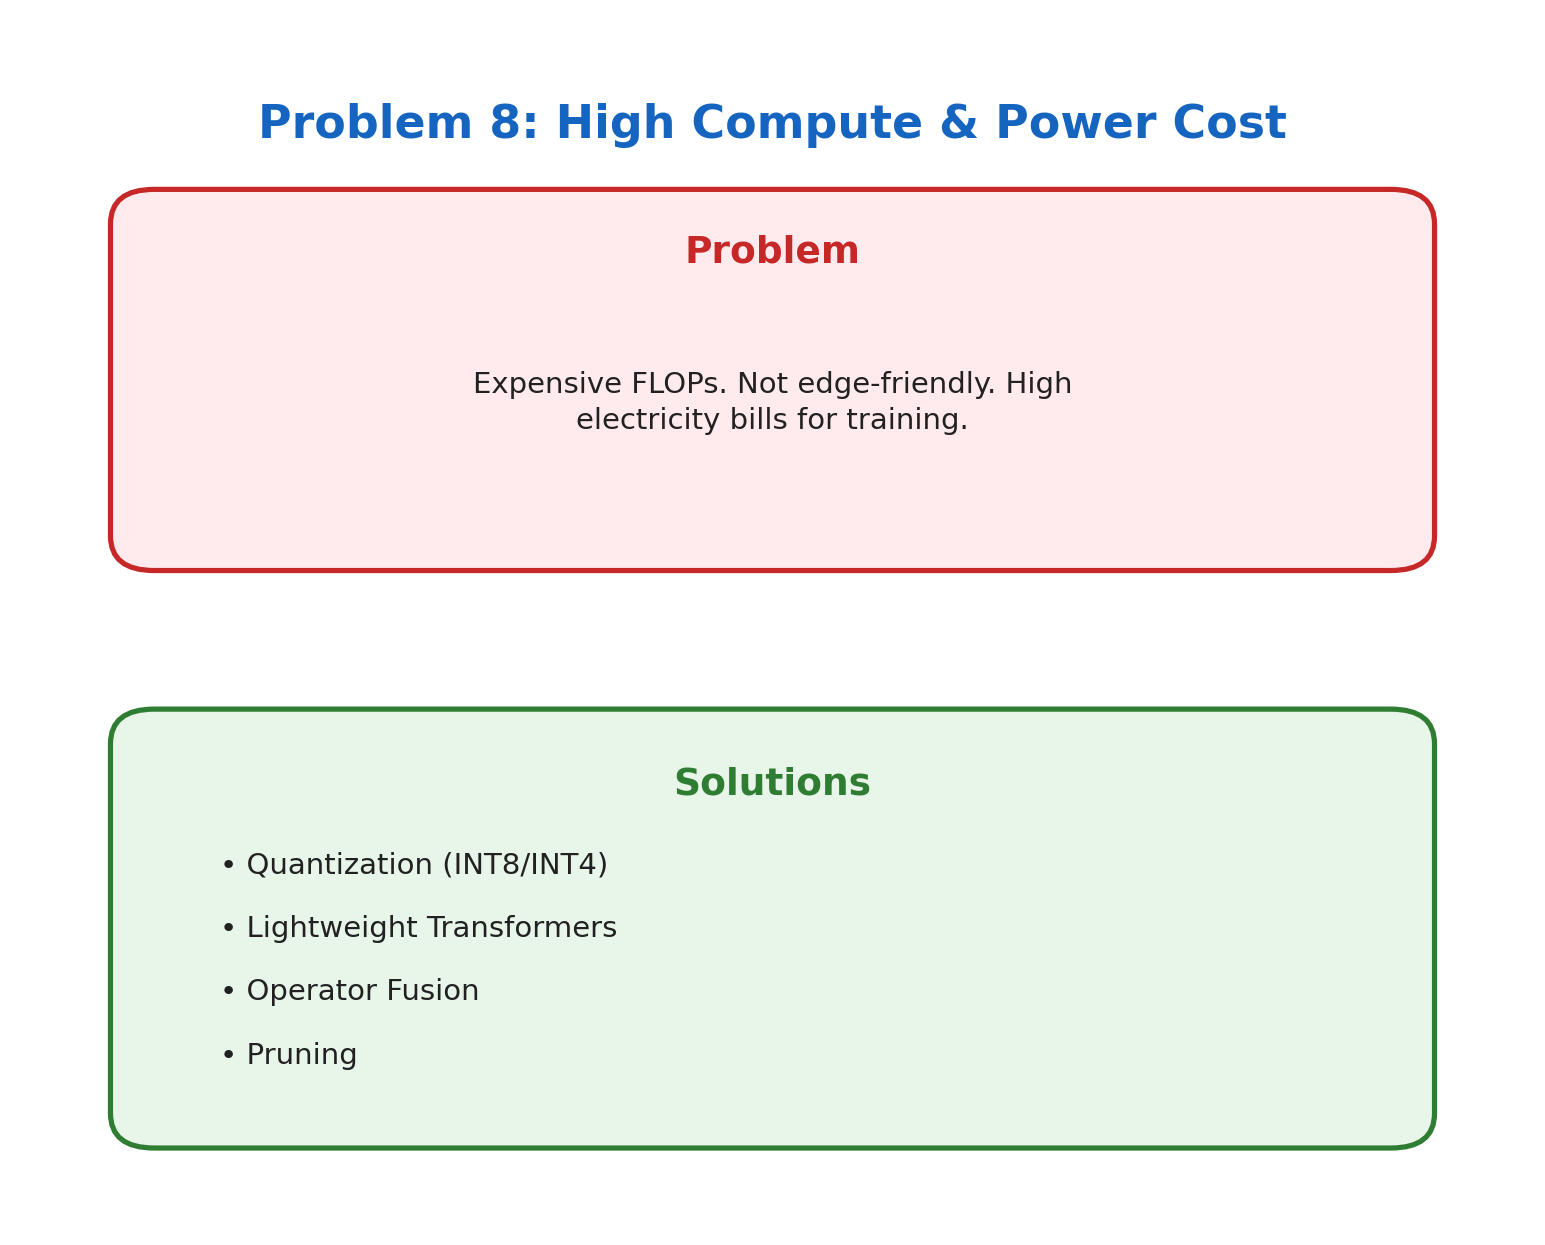
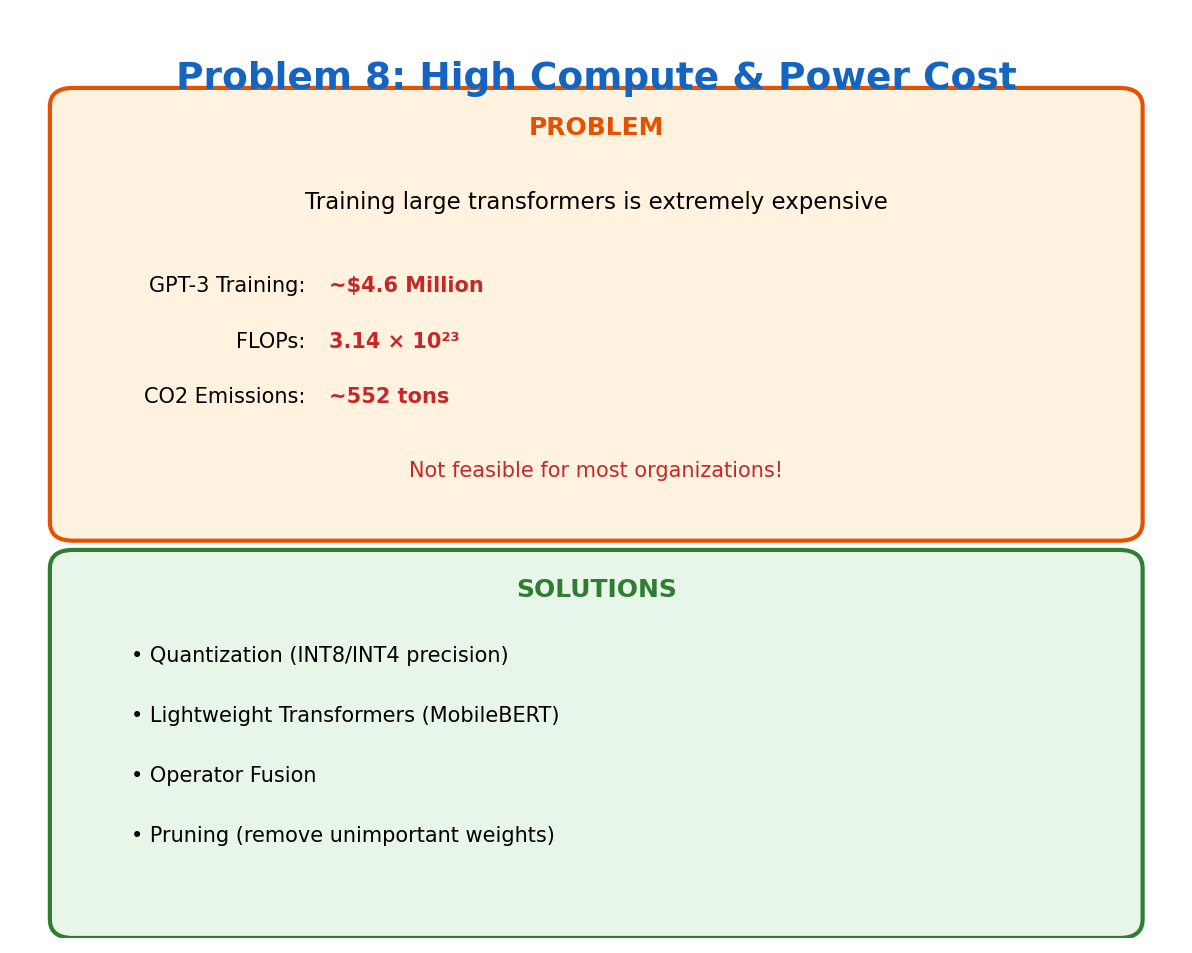
Update Problem 08: Compute Cost - human-readable README

diff --git a/08_compute_cost/README.md b/08_compute_cost/README.md
@@ -1,23 +1,61 @@
 # Problem 8: High Compute & Power Cost
 
-## Problem
+[← Back to Main](../README.md) | [← Previous](../07_memory_footprint/README.md) | [Next →](../09_length_generalization/README.md)
 
-Expensive FLOPs. Not edge-friendly. High electricity bills for training.
+---
 
-Training and running large Transformers requires massive computational resources. A single training run for GPT-3 scale models can cost millions of dollars in compute and consume significant energy.
+![Problem 8](./problem.png)
 
-## Solutions
+## What's the Problem?
 
-| Solution | Description |
-|----------|-------------|
-| **Quantization (INT8/INT4)** | Reduce precision of weights and activations |
-| **Lightweight Transformers** | Efficient architectures like MobileBERT, TinyBERT |
-| **Operator Fusion** | Combine multiple operations to reduce memory bandwidth |
-| **Pruning** | Remove unimportant weights or attention heads |
+Training GPT-3 cost an estimated $4.6 million in compute. GPT-4? Probably $50-100 million. And that's just training once — experiments, failed runs, and hyperparameter tuning multiply this.
 
-## References
+The environmental cost is real too. Training a single large model can emit as much CO2 as five cars over their entire lifetimes.
 
-- [LLM.int8()](https://arxiv.org/abs/2208.07339) - 8-bit Matrix Multiplication for Transformers at Scale
-- [MobileBERT](https://arxiv.org/abs/2004.02984) - A Compact Task-Agnostic BERT
-- [Movement Pruning](https://arxiv.org/abs/2005.07683) - Adaptive Sparsity by Fine-Tuning
+This isn't just an inconvenience — it means:
+- Only a handful of companies can train frontier models
+- Iteration is slow and expensive
+- Smaller research labs are locked out
 
+## The Numbers
+
+| Model | Training Cost | FLOPs | CO2 |
+|-------|--------------|-------|-----|
+| BERT-base | ~$1,000 | 10^18 | ~30kg |
+| GPT-3 | ~$4.6M | 3.14×10^23 | ~552 tons |
+| PaLM | ~$10M+ | 10^24 | ~1000+ tons |
+
+## Why So Expensive?
+
+Every forward pass through a transformer involves:
+- Matrix multiplications (compute-heavy)
+- Attention (O(N²) for sequence length N)
+- Billions of these operations per training step
+- Millions of training steps
+
+And you need this on expensive hardware (A100s at ~$10K each, H100s at ~$30K each).
+
+## How Do We Fix It?
+
+| Approach | Savings |
+|----------|---------|
+| **Quantization** | Run in INT8/INT4 instead of FP16/32 — 2-4x speedup |
+| **Pruning** | Remove unimportant weights — 50-90% sparsity possible |
+| **Distillation** | Train small models to mimic big ones |
+| **Efficient Architectures** | MobileBERT, DistilBERT — designed for efficiency |
+| **Mixture of Experts** | Only activate subset of parameters per input |
+
+## The MoE Revolution
+
+Mixture of Experts models (like Mixtral) have many parameters but only activate a fraction per token. A 47B parameter model might only use 13B per forward pass.
+
+More capacity, less compute. Best of both worlds.
+
+## Learn More
+
+- [LLM.int8()](https://arxiv.org/abs/2208.07339) — Quantization that works
+- [Chinchilla](https://arxiv.org/abs/2203.15556) — Compute-optimal training
+
+---
+
+[← Back to Main](../README.md) | [← Previous](../07_memory_footprint/README.md) | [Next →](../09_length_generalization/README.md)
